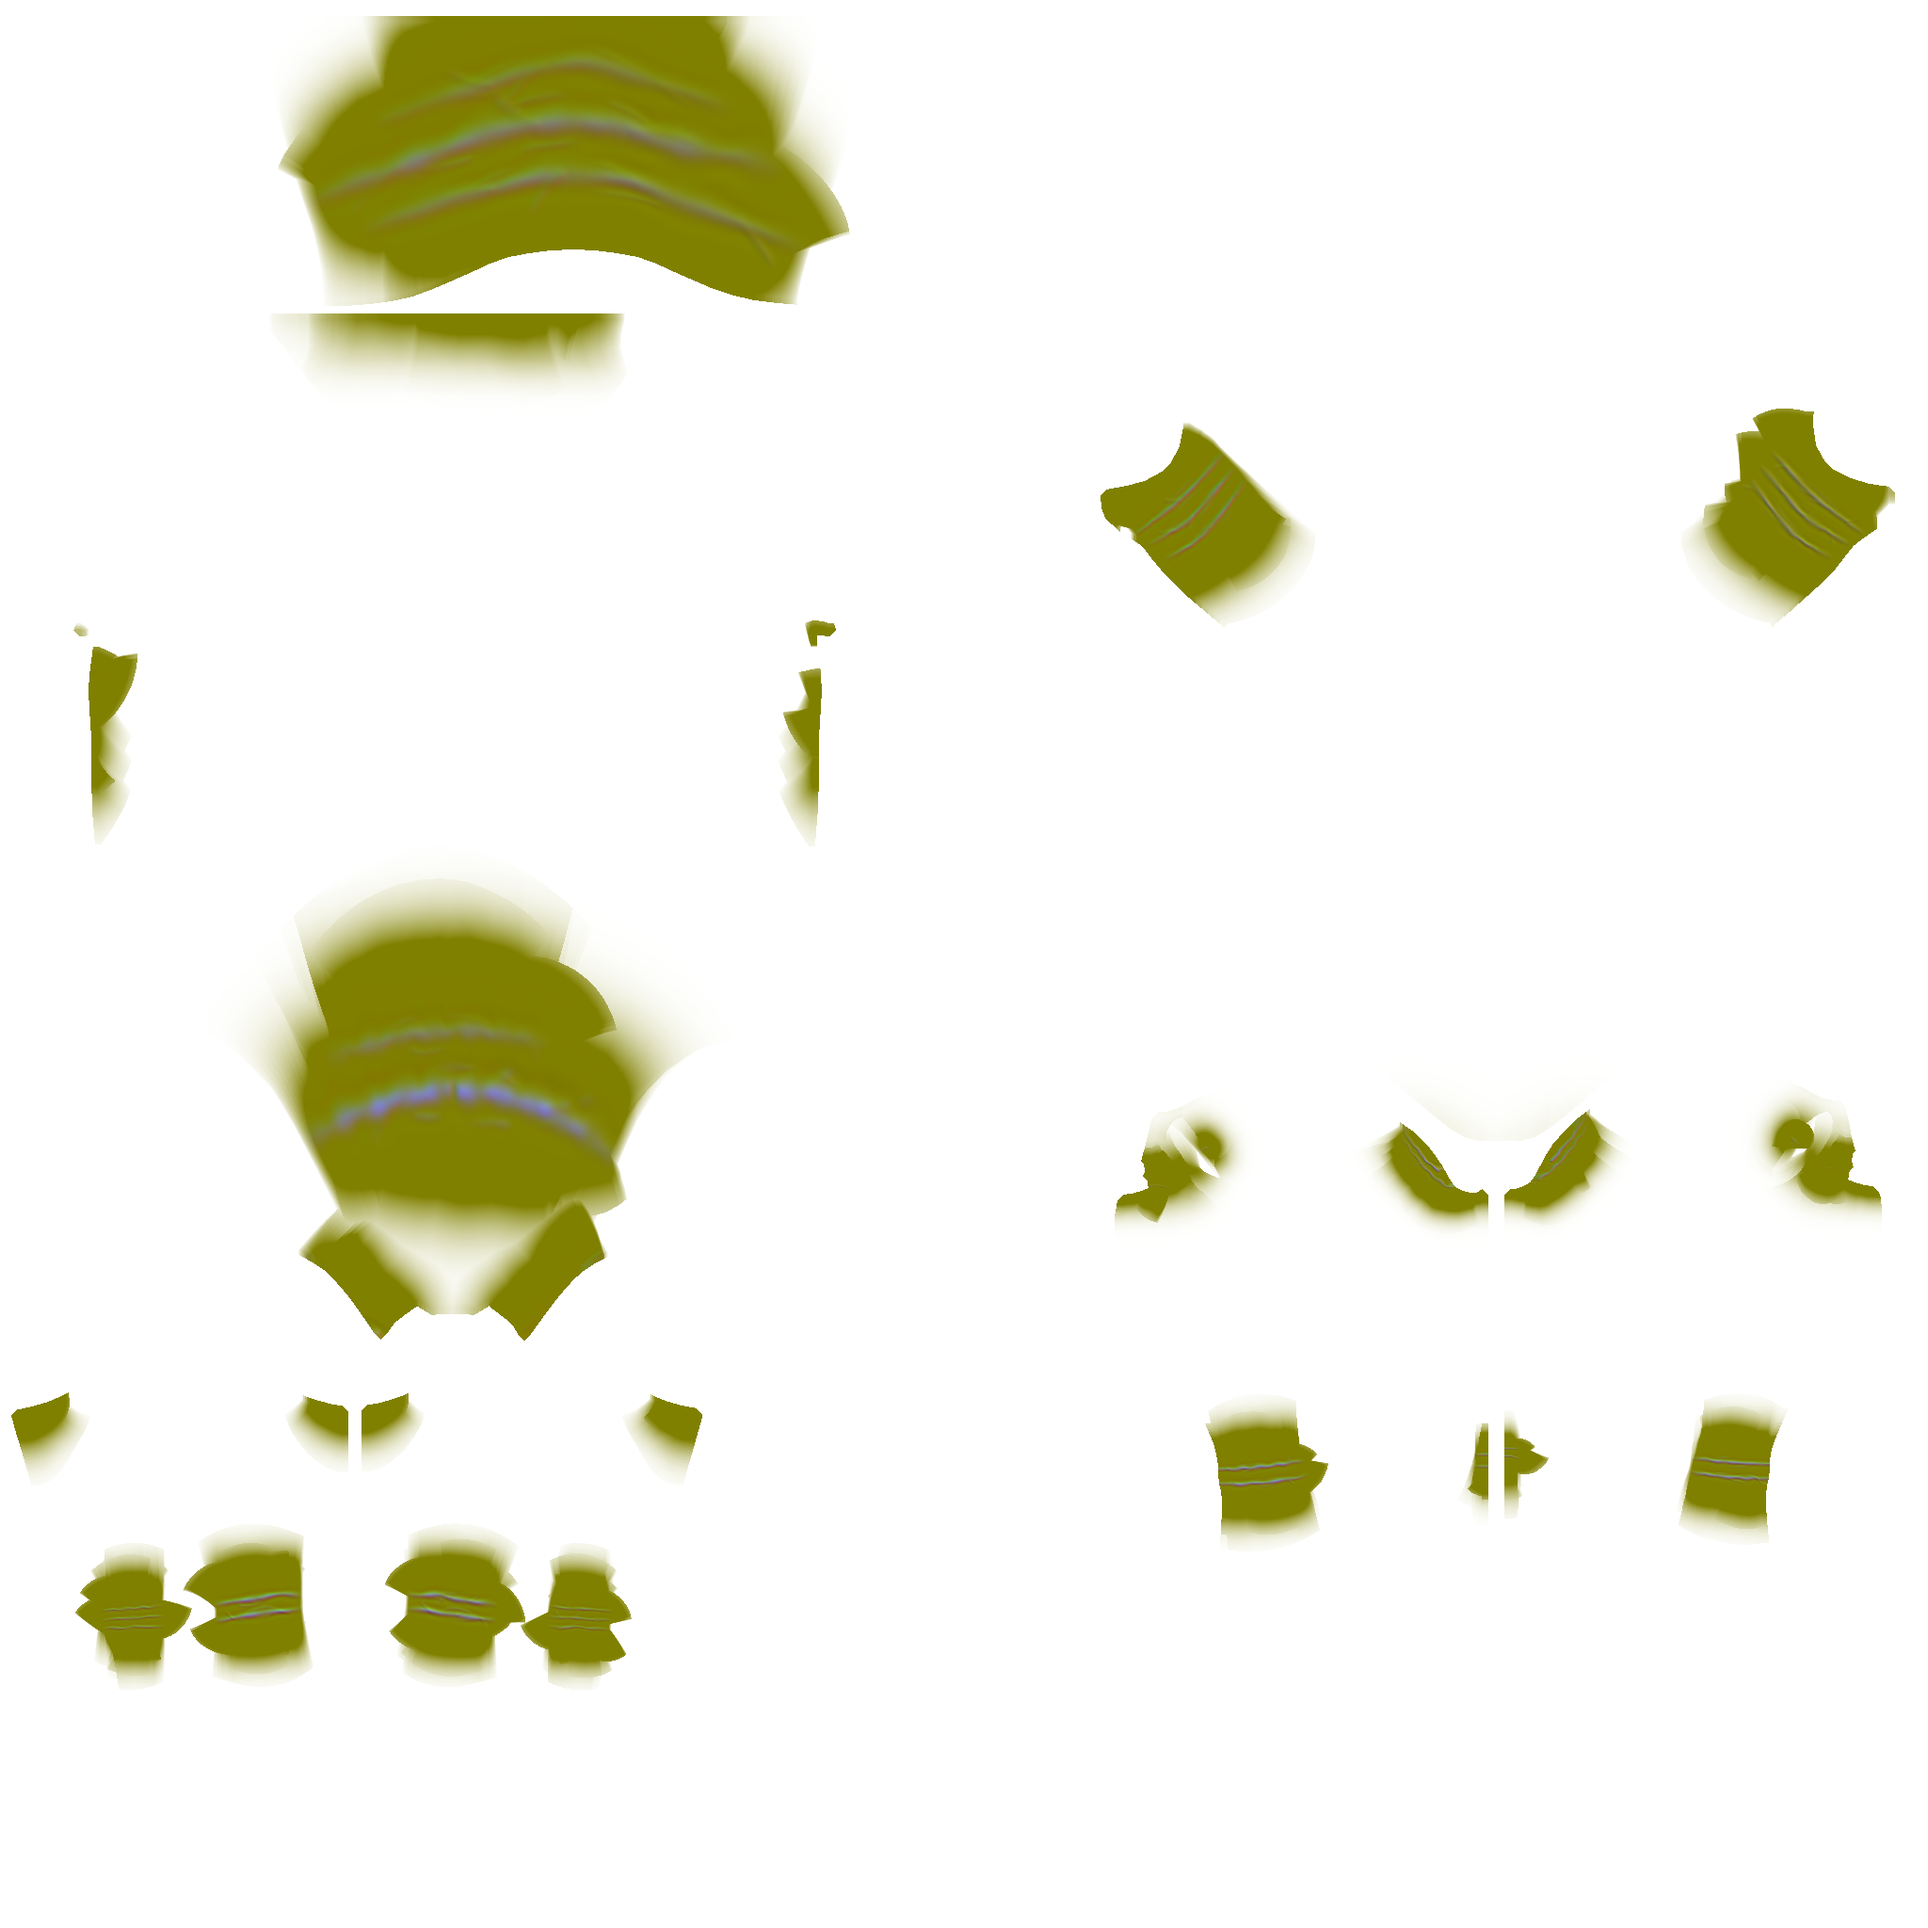
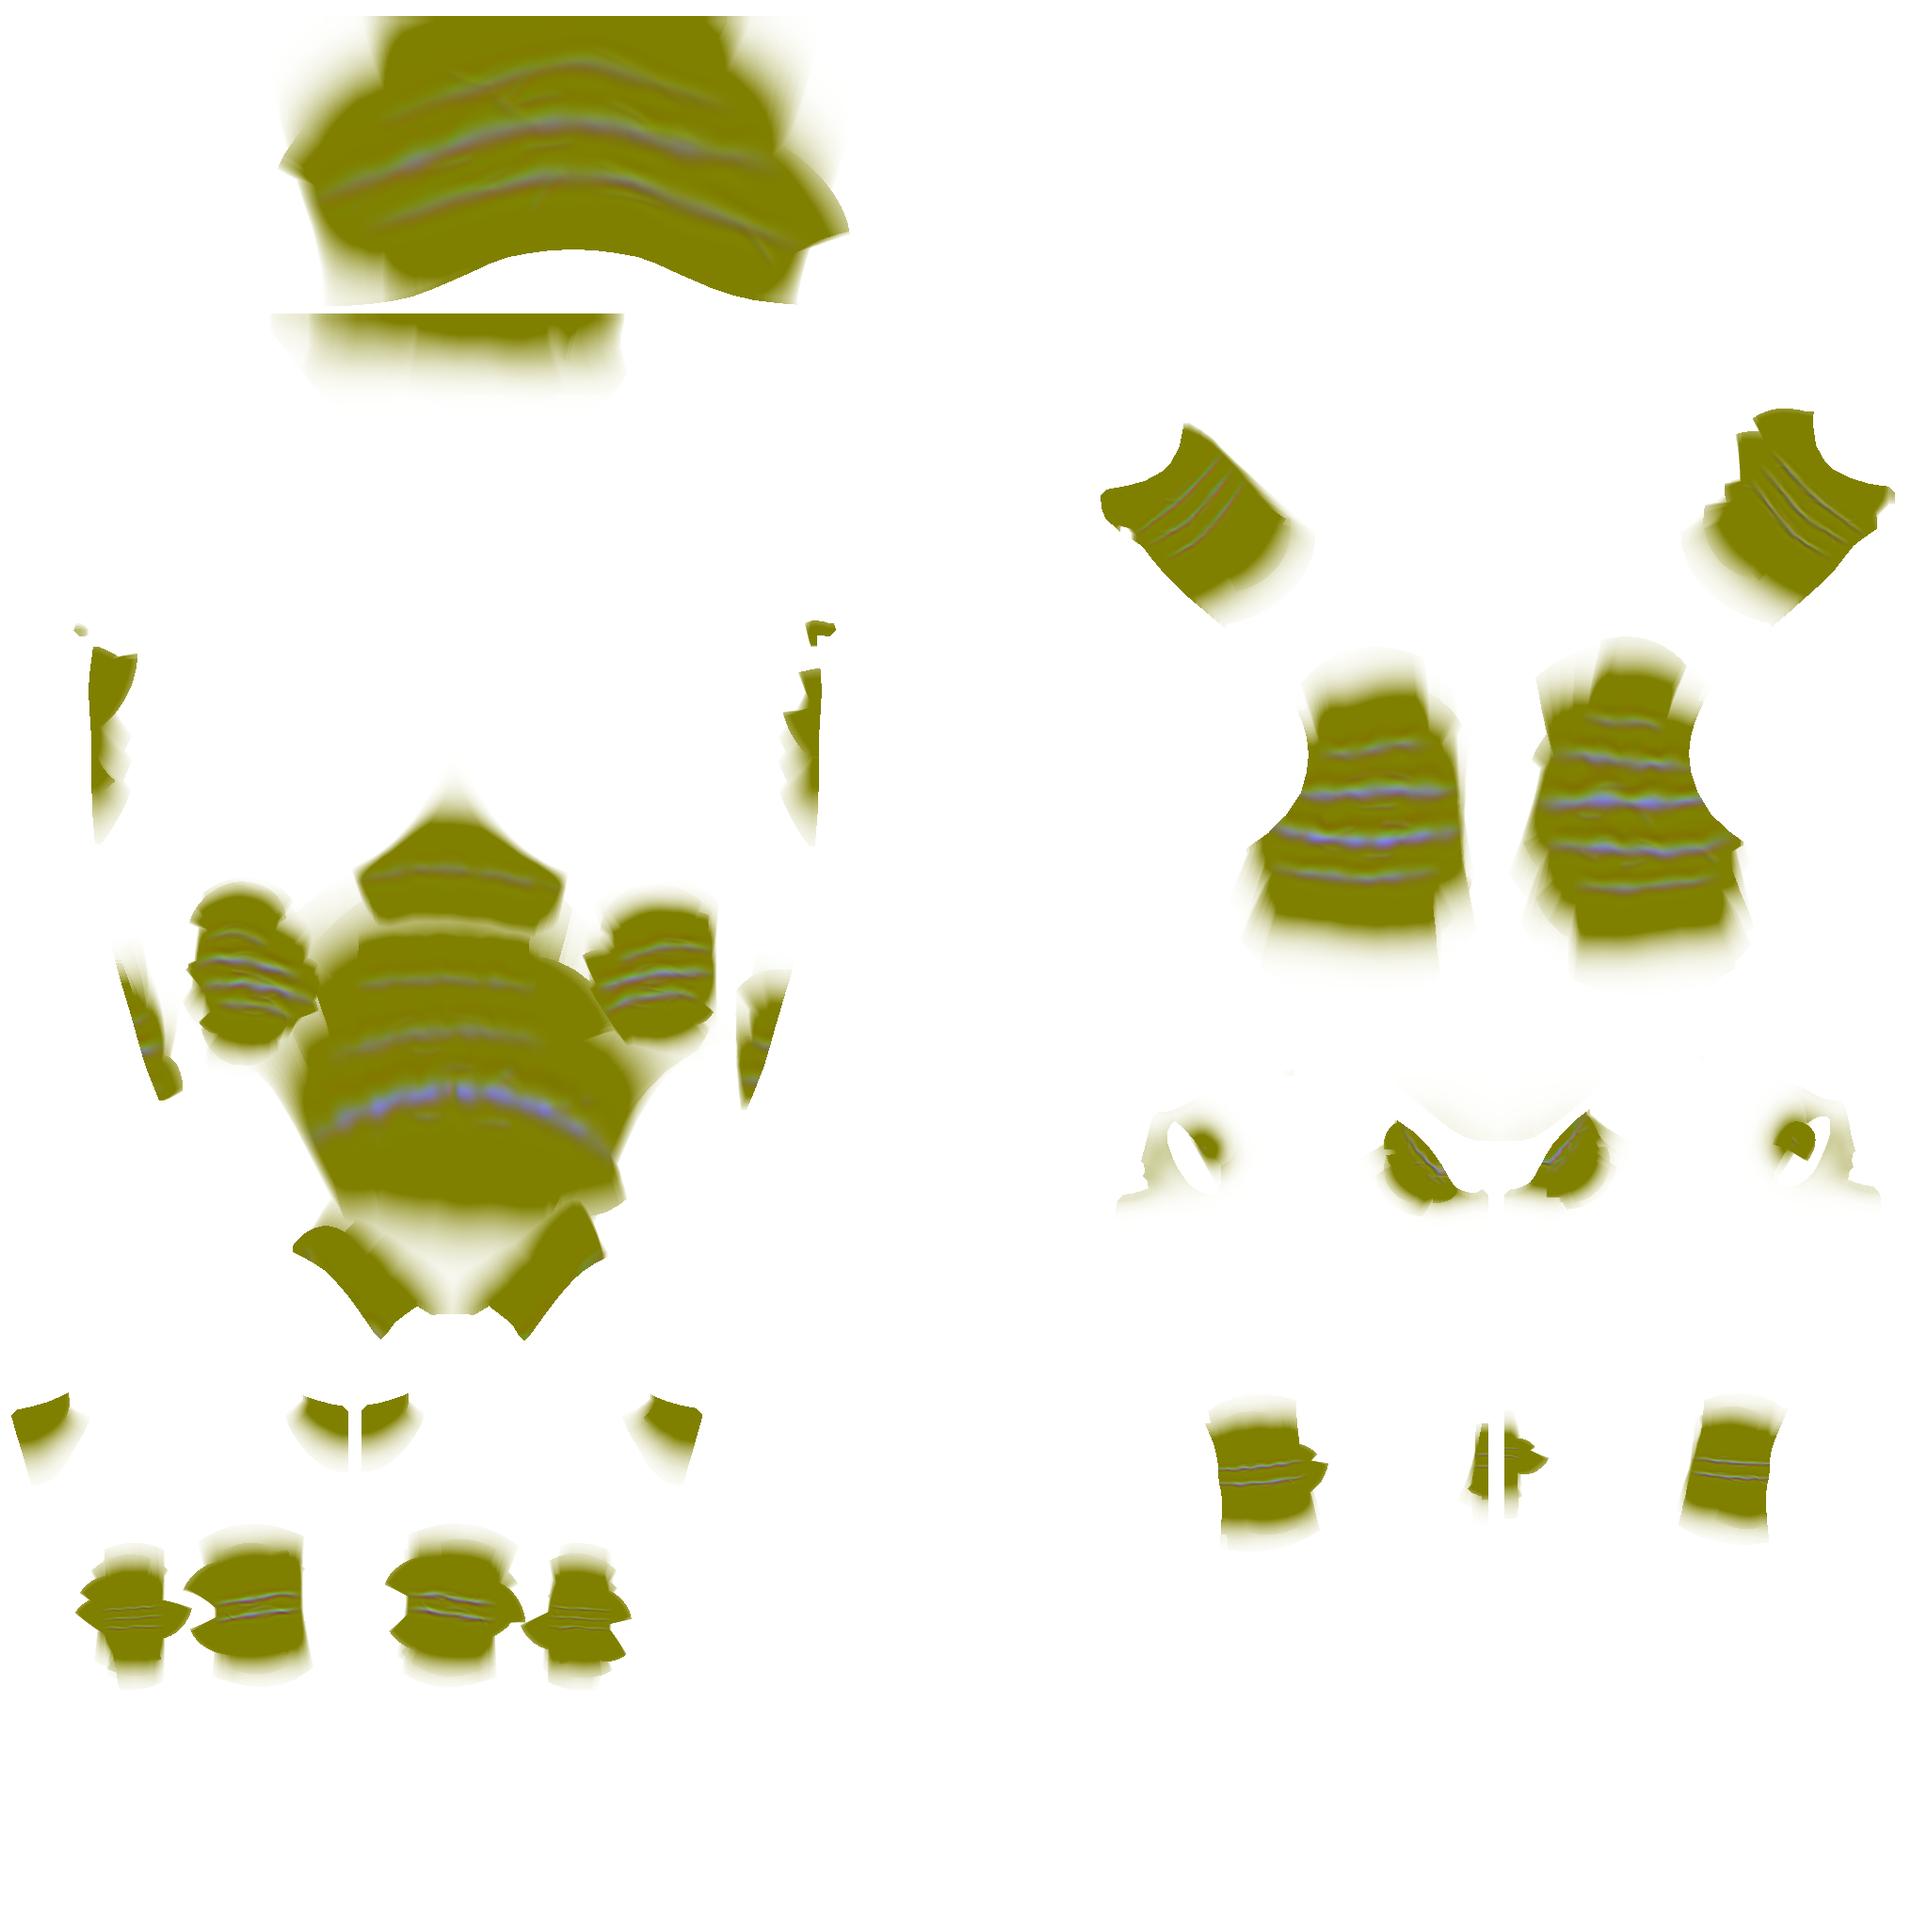
Wrinkles body: flank / side-waist / upper-belly creases and a sharper groin crease with branch folds (author.py body_creases)
New body regions flank_L / flank_R (range 0.12), sidewaist_L / sidewaist_R (0.10), upperbelly (0.15); hipfold_L / _R re-sculpted
(narrower deep core, thigh-side roll, broken echo below, 3-4 branch folds that stop short of the echo, Crease.micro = False for
them). Points on the trunk cast from inside outwards (the arms are in the way from outside). Ranges are first guesses.
Body maps and wrinkle_layouts.txt regenerated (17 body regions); face layout unchanged.

diff --git a/tools/wrinkles/author.py b/tools/wrinkles/author.py
@@ -249,6 +249,7 @@ class Crease:
         self.roll = roll
         self.breaks = breaks
         self.mid = mid
+        self.micro = True             # 0.11.47: False = add_micro leaves it alone (the groin's own branch folds)
 
 
 class Bunch:
@@ -452,7 +453,7 @@ def add_micro(prims, surf, regions, minw, log, feather_regions=(), scale=1.0):
     skin = SkinNear(surf)
     extra = []
     for c in prims:
-        if not isinstance(c, Crease):
+        if not isinstance(c, Crease) or not c.micro:
             continue
         rng = np.random.default_rng(c.seed * 1009 + 17)
         extra.extend(micro_lines(c, skin, rng, minw, feather=regions[c.region][0].split('_')[0] in feather_regions, scale=scale))
@@ -1120,21 +1121,63 @@ def body_creases(surf, sk, log):
             c = ring_crease(surf, kn, lax, np.array([0, 0, -1.0]), 50, al, 0.0009, 0.0018, rk, 240 + i + (10 if side == 'R' else 0), radius=0.1)
             if c:
                 out.append(c)
-        # hip fold (groin crease): from the front of the hip down and in towards the pubis, plus a fainter parallel one below
+        # hip fold (groin / inguinal crease): from the front of the hip down and in towards the pubis. 0.11.47 (refs: seated with legs
+        # apart the crease is a sharp, deep line with short folds fanning from it onto the compressed thigh): a narrow deep core with
+        # the thigh's skin rolling over it, a fainter broken echo below, and 3-4 small folds branching off the core on the thigh side
+        # (each leaves the crease at a shallow angle and curves away; no line crosses the crease). Per side its own shape and depths.
         rh = reg('hipfold_' + sn, 'body', 0.20)
         rr[rh] = 0.03
-        for i, dy in enumerate((0.0, -0.012)):
+        so = 10 if side == 'R' else 0
+        hr = np.random.default_rng(265 + so)
+        thigh = unit([sx, -1.0, 0.0])                   # across the crease towards the thigh (down and out)
+
+        def groin_xy(u, dy=0.0):
+            return (sx * (0.105 - 0.075 * u), 0.905 - 0.075 * u + dy - 0.008 * math.sin(math.pi * u))
+
+        def front_hit(x, y):
+            return surf.ray(np.array([x, y, 0.4]), np.array([0, 0, -1.0]))
+
+        #             dy      u0 .. u1      depth mm                width mm  ridge  breaks
+        for i, (dy, u0, u1, dep, wid, rdg, brk) in enumerate(((0.0, 0.0, 1.0, 1.15 if side == 'L' else 1.05, 2.5, 0.6, 0.0),
+                                                                (-0.016, 0.12, 0.8, 0.36 if side == 'L' else 0.3, 2.9, 0.4, 0.3))):
             pts = []
-            for k in range(11):
-                u = k / 10.0
-                x = sx * (0.105 - 0.075 * u)
-                y = 0.905 - 0.075 * u + dy - 0.008 * math.sin(math.pi * u)
-                h = surf.ray(np.array([x, y, 0.4]), np.array([0, 0, -1.0]))
+            for k in range(13):
+                x, y = groin_xy(u0 + (u1 - u0) * k / 12.0, dy)
+                h = front_hit(x, y)
                 if h is not None:
                     pts.append(h)
             if len(pts) > 5:
-                out.append(Crease(wobble(np.array(pts), lambda q: np.tile([0, 0, 1.0], (len(q), 1)), 0.0008, 260 + i),
-                                  rh, 0.0009 - 0.0003 * i, 0.0018, seed=260 + i + (10 if side == 'R' else 0)))
+                out.append(Crease(wobble(np.array(pts), lambda q: np.tile([0, 0, 1.0], (len(q), 1)), 0.0007, 260 + i + so),
+                                  rh, dep * 0.001, wid * 0.001, seed=260 + i + so, ridge=rdg, roll_toward=thigh, roll=(1.0, 0.45),
+                                  breaks=brk))
+        nbr = 4 if side == 'L' else 3
+        us = np.sort(hr.uniform(0.18, 0.86, nbr))
+        for b, u in enumerate(us):
+            x0, y0 = groin_xy(u)
+            x1, y1 = groin_xy(min(u + 0.02, 1.0))
+            tg = unit([x1 - x0, y1 - y0, 0.0])          # along the crease, towards the pubis
+            nn = thigh - np.dot(thigh, tg) * tg
+            nn = unit(nn)
+            dirn = tg if hr.uniform() < 0.6 else -tg    # most fan towards the pubis
+            ang = math.radians(hr.uniform(18, 30))
+            bend = hr.uniform(0.15, 0.45) * (1 if hr.uniform() < 0.5 else -1)
+            ln = hr.uniform(0.016, 0.026)
+            p0 = np.array([x0, y0, 0.0]) + nn * 0.0035
+            pts = []
+            for k in range(9):
+                v = k / 8.0
+                a = ang * (1 + bend * v)
+                q = p0 + (dirn * math.cos(a) + nn * math.sin(a)) * ln * v
+                if np.dot(q - p0, nn) > 0.0065:         # stop short of the echo below (a fold crossing it read as a stitch)
+                    break
+                h = front_hit(q[0], q[1])
+                if h is not None:
+                    pts.append(h)
+            if len(pts) > 4:
+                c = Crease(np.array(pts), rh, (1.2 if side == 'L' else 1.1) * hr.uniform(0.25, 0.35) * 0.001, hr.uniform(0.0021, 0.0025),
+                           taper=(0, 1), seed=340 + b + so, ridge=0.3)
+                c.micro = False
+                out.append(c)
         # armpit: creases in the hollow under the shoulder, running front to back, when the arm comes down. Cast from below and
         # outside (the armpit faces down and out in her bind pose); a ray from the front would land on the side of her breast.
         ra = reg('armpit_' + sn, 'body', 0.25)
@@ -1212,6 +1255,93 @@ def body_creases(surf, sk, log):
             out.append(Crease(wobble(np.array(pts), lambda q: np.tile([0, 0, 1.0], (len(q), 1)), 0.0009, seed + 5),
                               rbel, dep * 0.001, wid * 0.001, seed=seed, ridge=0.75, roll_toward=np.array([0, 1.0, 0]), roll=(1.0, 0.35),
                               breaks=brk))
+
+    # 0.11.47 trunk folds from the reference images / videos. Points are cast from inside her trunk outwards (from outside, rays at
+    # the waist meet her arms first): a = degrees from her front round to her side sx (90 = the side, 180 = the back).
+    def around(samples, sxx, zc=0.0):
+        pts = []
+        for a, y in samples:
+            ar = math.radians(a)
+            c = np.array([0.0, y, zc])
+            h = surf.ray(c, np.array([sxx * math.sin(ar), 0.0, math.cos(ar)]), near=0.25)
+            if h is not None and np.linalg.norm(h - c) < 0.2:
+                pts.append(h)
+        return np.array(pts)
+
+    def trunk_line(sxx, a0, a1, y0, drop, wave, seed, n=21, bow=0.0):
+        """a line from angle a0 at height y0 to a1, dropping `drop` metres on the way, bowing up by `bow` in the middle, with a slow
+        irregular wave"""
+        ph = np.random.default_rng(seed).uniform(0, 6.28, 2)
+        smp = []
+        for k in range(n):
+            u = k / (n - 1.0)
+            smp.append((a0 + (a1 - a0) * u, y0 - drop * u + bow * math.sin(math.pi * u) + wave * (0.6 * math.sin(5.3 * u + ph[0]) + 0.4 * math.sin(11.0 * u + ph[1]))))
+        pts = around(smp, sxx)
+        if len(pts) < 8:
+            return None
+        return wobble(pts, lambda q: unit_rows(q * np.array([1.0, 0.0, 1.0])), 0.0006, seed + 5)
+
+    up = np.array([0, 1.0, 0])
+    # flank (refs: back / side, arched with a twist or a side bend): 3-5 stacked near-horizontal creases between the 12th rib and the
+    # iliac crest, from the erector column round to just behind her side, sloping a little down towards the front, 15-25 mm apart,
+    # the middle ones the deepest and longest, the skin rolling above each. Only the compressed side's region activates, so the
+    # one-sidedness comes from the plugin's per-region compression. Per side its own count, heights, reach and depths.
+    #       height at the back, back / front end (deg), drop to the front (m), depth mm, width mm, wave (m), seed
+    flank = {'L': ((1.075, 150, 110, 0.004, 0.55, 3.2, 0.0012, 400),
+                   (1.054, 160, 102, 0.007, 0.95, 3.8, 0.0015, 401),
+                   (1.031, 163, 99, 0.008, 1.1, 4.0, 0.0013, 402),
+                   (1.010, 154, 107, 0.006, 0.7, 3.4, 0.0011, 403)),
+             'R': ((1.088, 144, 116, 0.003, 0.5, 2.8, 0.0010, 410),
+                   (1.069, 155, 104, 0.005, 0.75, 3.4, 0.0013, 411),
+                   (1.048, 162, 100, 0.006, 1.05, 3.9, 0.0016, 412),
+                   (1.025, 158, 102, 0.009, 0.9, 3.7, 0.0012, 413),
+                   (1.004, 149, 110, 0.005, 0.6, 3.0, 0.0010, 414))}
+    # side waist (refs: a crunch / a side bend): 2-4 diagonal folds on the side of the waist running down and forward (~20-25 deg),
+    # 10-15 mm apart, 50-80 mm long, a sharper core; in front of the flank creases (they do not meet: separate poses)
+    #       height at the back end, back / front end (deg), drop (m), depth mm, width mm, wave (m), seed
+    waist = {'L': ((1.090, 86, 57, 0.024, 0.55, 2.4, 0.0008, 420),
+                   (1.076, 88, 52, 0.029, 0.85, 2.8, 0.0009, 421),
+                   (1.061, 84, 55, 0.026, 0.7, 2.6, 0.0008, 422)),
+             'R': ((1.094, 82, 63, 0.016, 0.4, 2.2, 0.0006, 430),
+                   (1.082, 87, 55, 0.027, 0.8, 2.7, 0.0009, 431),
+                   (1.068, 86, 52, 0.030, 0.85, 2.8, 0.0009, 432),
+                   (1.054, 83, 59, 0.022, 0.55, 2.4, 0.0007, 433))}
+    for side in ('L', 'R'):
+        sxx = -1.0 if side == 'L' else 1.0
+        rf = reg('flank_' + side, 'body', 0.12)
+        rr[rf] = 0.025
+        for y0, a0, a1, drop, dep, wid, wave, seed in flank[side]:
+            p = trunk_line(sxx, a0, a1, y0, drop, wave, seed)
+            if p is not None:
+                c = Crease(p, rf, dep * 0.001, wid * 0.001, seed=seed, ridge=0.8, roll_toward=up, roll=(1.0, 0.25))
+                c.micro = dep >= 0.9     # micro lines only around the deep middle folds (on all of them the flank read as cracked)
+                out.append(c)
+        rw = reg('sidewaist_' + side, 'body', 0.10)
+        rr[rw] = 0.016
+        for y0, a0, a1, drop, dep, wid, wave, seed in waist[side]:
+            p = trunk_line(sxx, a0, a1, y0, drop, wave, seed, n=15, bow=0.004)     # bunched skin bows: straight ones read as scratches
+            if p is not None:
+                out.append(Crease(p, rw, dep * 0.001, wid * 0.001, seed=seed, ridge=0.75, roll_toward=up, roll=(1.0, 0.3)))
+    # upper belly (ref: sitting slightly hunched): two transverse creases across the upper belly under the breasts, the upper one
+    # arched up in the middle (along the costal margin), the lower one nearly straight with a slight dip, each with its roll on
+    # the side facing the other so a paler raised band runs between them
+    rub = reg('upperbelly', 'body', 0.15)
+    rr[rub] = 0.025
+    #        height above the navel, arch at the middle (m), left / right end (deg), depth mm, width mm, roll towards, seed
+    for dy, arch, (a0, a1), dep, wid, rt, seed in ((0.124, 0.009, (-38, 34), 0.4, 3.4, -up, 440),
+                                                    (0.070, -0.003, (-36, 42), 0.42, 3.6, up, 441)):
+        ph = np.random.default_rng(seed).uniform(0, 6.28, 2)
+        smp = []
+        for k in range(23):
+            a = a0 + (a1 - a0) * k / 22.0
+            an = a / 45.0
+            smp.append((a, ny + dy + arch * (1 - an * an) + 0.0012 * math.sin(4.0 * an + ph[0]) + 0.0015 * an))
+        pts = around(smp, 1.0)                          # negative angles: her left
+        if len(pts) > 12:
+            c = Crease(wobble(pts, lambda q: np.tile([0, 0, 1.0], (len(q), 1)), 0.0006, seed + 5), rub, dep * 0.001, wid * 0.001,
+                       seed=seed, ridge=0.7, roll_toward=rt, roll=(1.0, 0.3), breaks=0.12)
+            c.micro = False      # two plain rolls (with echoes beside them the upper one read as a doubled, drawn line)
+            out.append(c)
     log('body: %d creases in %d regions' % (len(out), len(regions)))
     excl = []
     for side in ('Left', 'Right'):
